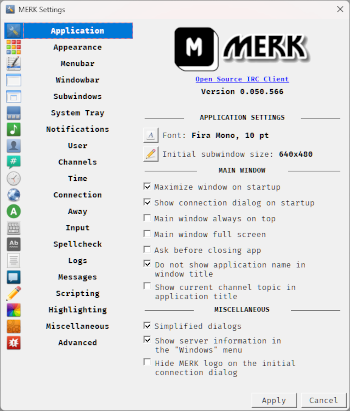
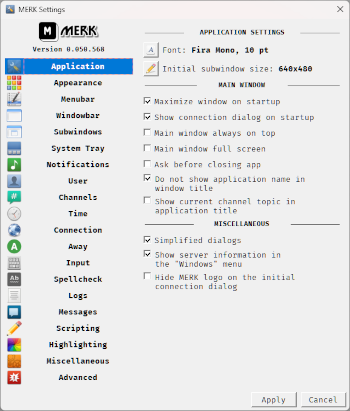
Tweaks to the settings dialog, and a new screenshot

diff --git a/README.html b/README.html
@@ -1,4 +1,4 @@
-<h1>MERK 0.050.568</h1>
+<h1>MERK 0.050.569</h1>
 
 <p><a href="https://github.com/nutjob-laboratories/merk">Official source code repository</a></p>
 <h1 id="table-of-contents">Table of contents</h1>
@@ -14,7 +14,7 @@
 <li><a href="#does-merk-need-any-help">Does MERK need any help?</a></li>
 </ul>
 <h1 id="summary">Summary</h1>
-<p><strong>MERK</strong> is a graphical <a href="https://www.gnu.org/licenses/gpl-3.0.en.html">open source</a> <a href="https://en.wikipedia.org/wiki/Internet_Relay_Chat">Internet relay chat</a> client. The current development version is <strong>0.050.568</strong>. It uses a <a href="https://en.wikipedia.org/wiki/Multiple-document_interface">multiple-document interface</a>, much like the popular Windows IRC client <a href="https://www.mirc.com/">mIRC</a>.  <strong>MERK</strong> is written in Python 3, using the <a href="https://pypi.org/project/PyQt5/">PyQt5</a> and <a href="https://twistedmatrix.com/trac/">Twisted</a> libraries, and runs on both Windows and Linux. <strong>MERK</strong> is updated frequently with new features and bugfixes.</p>
+<p><strong>MERK</strong> is a graphical <a href="https://www.gnu.org/licenses/gpl-3.0.en.html">open source</a> <a href="https://en.wikipedia.org/wiki/Internet_Relay_Chat">Internet relay chat</a> client. The current development version is <strong>0.050.569</strong>. It uses a <a href="https://en.wikipedia.org/wiki/Multiple-document_interface">multiple-document interface</a>, much like the popular Windows IRC client <a href="https://www.mirc.com/">mIRC</a>.  <strong>MERK</strong> is written in Python 3, using the <a href="https://pypi.org/project/PyQt5/">PyQt5</a> and <a href="https://twistedmatrix.com/trac/">Twisted</a> libraries, and runs on both Windows and Linux. <strong>MERK</strong> is updated frequently with new features and bugfixes.</p>
 <p><strong>MERK</strong> is still in development, but it works, and can be used for most IRC activities.</p>
 <p>Join me on the official <strong>MERK</strong> IRC channel, <strong>#merk</strong> on the Libera Chat network! Connect to  Libera in the client as one of the built-in server suggestions, or at <strong>irc.libera.chat</strong>, port <strong>6667</strong> (you can also connect via SSL on port <strong>6697</strong>). Honestly, I work a lot, so I&#39;m almost always idle, but I pop in and chat a few times a day!</p>
 <h1 id="making-merk-portable-on-windows">Making MERK Portable on Windows</h1>

diff --git a/merk/resources/README.html b/merk/resources/README.html
@@ -1,4 +1,4 @@
-<h1>MERK 0.050.568</h1>
+<h1>MERK 0.050.569</h1>
 
 <p><a href="https://github.com/nutjob-laboratories/merk">Official source code repository</a></p>
 <h1 id="table-of-contents">Table of contents</h1>
@@ -14,7 +14,7 @@
 <li><a href="#does-merk-need-any-help">Does MERK need any help?</a></li>
 </ul>
 <h1 id="summary">Summary</h1>
-<p><strong>MERK</strong> is a graphical <a href="https://www.gnu.org/licenses/gpl-3.0.en.html">open source</a> <a href="https://en.wikipedia.org/wiki/Internet_Relay_Chat">Internet relay chat</a> client. The current development version is <strong>0.050.568</strong>. It uses a <a href="https://en.wikipedia.org/wiki/Multiple-document_interface">multiple-document interface</a>, much like the popular Windows IRC client <a href="https://www.mirc.com/">mIRC</a>.  <strong>MERK</strong> is written in Python 3, using the <a href="https://pypi.org/project/PyQt5/">PyQt5</a> and <a href="https://twistedmatrix.com/trac/">Twisted</a> libraries, and runs on both Windows and Linux. <strong>MERK</strong> is updated frequently with new features and bugfixes.</p>
+<p><strong>MERK</strong> is a graphical <a href="https://www.gnu.org/licenses/gpl-3.0.en.html">open source</a> <a href="https://en.wikipedia.org/wiki/Internet_Relay_Chat">Internet relay chat</a> client. The current development version is <strong>0.050.569</strong>. It uses a <a href="https://en.wikipedia.org/wiki/Multiple-document_interface">multiple-document interface</a>, much like the popular Windows IRC client <a href="https://www.mirc.com/">mIRC</a>.  <strong>MERK</strong> is written in Python 3, using the <a href="https://pypi.org/project/PyQt5/">PyQt5</a> and <a href="https://twistedmatrix.com/trac/">Twisted</a> libraries, and runs on both Windows and Linux. <strong>MERK</strong> is updated frequently with new features and bugfixes.</p>
 <p><strong>MERK</strong> is still in development, but it works, and can be used for most IRC activities.</p>
 <p>Join me on the official <strong>MERK</strong> IRC channel, <strong>#merk</strong> on the Libera Chat network! Connect to  Libera in the client as one of the built-in server suggestions, or at <strong>irc.libera.chat</strong>, port <strong>6667</strong> (you can also connect via SSL on port <strong>6697</strong>). Honestly, I work a lot, so I&#39;m almost always idle, but I pop in and chat a few times a day!</p>
 <h1 id="making-merk-portable-on-windows">Making MERK Portable on Windows</h1>

diff --git a/merk/dialog/settings.py b/merk/dialog/settings.py
@@ -1495,19 +1495,7 @@ class Dialog(QDialog):
 		self.showTopicInTitle.stateChanged.connect(self.changedSetting)
 		self.showTopicInTitle.setStyleSheet("QCheckBox { text-align: left top; } QCheckBox::indicator { subcontrol-origin: padding; subcontrol-position: left top; }")
 
-		logo = QLabel()
-		pixmap = QPixmap(SPLASH_LOGO)
-		logo.setPixmap(pixmap)
-		logo.setAlignment(Qt.AlignCenter)
-
-		app_link = QLabel(f'<center><b><small><a href="{APPLICATION_SOURCE}">Open Source IRC Client</a></small></b></center>')
-		app_link.setOpenExternalLinks(True)
-
 		applicationLayout = QVBoxLayout()
-		applicationLayout.addWidget(logo)
-		applicationLayout.addWidget(app_link)
-		applicationLayout.addWidget(QLabel(f'<center><b>Version {APPLICATION_VERSION}</b></center>'))
-		applicationLayout.addWidget(QLabel(' '))
 		applicationLayout.addWidget(widgets.textSeparatorLabel(self,"<b>application settings</b>"))
 		applicationLayout.addLayout(fontLayout)
 		applicationLayout.addLayout(sizeLayout)
@@ -4267,7 +4255,15 @@ class Dialog(QDialog):
 		dialogButtonsLayout.addWidget(self.saveButton)
 		dialogButtonsLayout.addWidget(self.cancelButton)
 
+		logo = QLabel()
+		pixmap = QPixmap(SPLASH_LOGO)
+		pixmap = pixmap.scaledToWidth(self.selector.width(), Qt.SmoothTransformation)
+		logo.setPixmap(pixmap)
+		logo.setAlignment(Qt.AlignCenter)
+
 		leftLayout = QVBoxLayout()
+		leftLayout.addWidget(logo)
+		leftLayout.addWidget(QLabel(f"<center><small><b>Version {APPLICATION_VERSION}</b></small></center>"))
 		leftLayout.addWidget(self.selector)
 
 		mainLayout = QHBoxLayout()

diff --git a/merk/resources/version.py b/merk/resources/version.py
@@ -1,1 +1,1 @@
-APPLICATION_VERSION = "0.050.568"
+APPLICATION_VERSION = "0.050.569"

diff --git a/README.md b/README.md
@@ -3,7 +3,7 @@
   <b><big>Open Source IRC Client</big></b><br>
   <i>A multiple-document interface IRC client for Windows and Linux</i><br>
   <b><big>Current stable release: <a href="https://github.com/nutjob-laboratories/merk/releases/tag/0.050.550">MERK 0.050.550</a></big></b><br>
-  <b>Current development version: 0.050.568</b><br><br>
+  <b>Current development version: 0.050.569</b><br><br>
   <b><a href="https://gofund.me/ae062139">Help Fund MERK!</a></b><br>
 </p>
 
@@ -30,13 +30,13 @@ All files are packed in [ZIP archive files](https://en.wikipedia.org/wiki/ZIP_(f
 | :----:    | :----:    | :----:    |
 | User Guide |  PDF  | [MERK User Guide](./MERK_User_Guide.pdf)  |
 | Current Release |  -  | [MERK 0.050.550 Release](https://github.com/nutjob-laboratories/merk/releases/tag/0.050.550)  |
-| Zip Archive|  Cross-platform  | [Download MERK 0.050.568 (11.99 MB)](https://www.dropbox.com/scl/fi/pf9p7ltb3uufm5akjz7l0/merk-latest.zip?rlkey=3caodopybbcxr4p9grxygxzym&st=01zsuura&dl=1)  |
-| Zip Archive|  Windows EXE | [Download MERK 0.050.568 (48.81 MB)](https://www.dropbox.com/scl/fi/4w9ufyknzac24o06710bi/merk-windows-latest.zip?rlkey=zmir67l3klg8mw0omxayzmssc&st=vb69tsdi&dl=1)|
-|   Windows Installer|  Windows Setup | [Download MERK 0.050.568 (45.94 MB)](https://www.dropbox.com/scl/fi/0u1vcg5xuntzs2b16e01b/merk_setup.zip?rlkey=8avj1gyed3txz1nfj9ev41mmh&st=zlve4c1o&dl=1)|
+| Zip Archive|  Cross-platform  | [Download MERK 0.050.569 (11.99 MB)](https://www.dropbox.com/scl/fi/pf9p7ltb3uufm5akjz7l0/merk-latest.zip?rlkey=3caodopybbcxr4p9grxygxzym&st=01zsuura&dl=1)  |
+| Zip Archive|  Windows EXE | [Download MERK 0.050.569 (48.82 MB)](https://www.dropbox.com/scl/fi/4w9ufyknzac24o06710bi/merk-windows-latest.zip?rlkey=zmir67l3klg8mw0omxayzmssc&st=vb69tsdi&dl=1)|
+|   Windows Installer|  Windows Setup | [Download MERK 0.050.569 (45.93 MB)](https://www.dropbox.com/scl/fi/0u1vcg5xuntzs2b16e01b/merk_setup.zip?rlkey=8avj1gyed3txz1nfj9ev41mmh&st=zlve4c1o&dl=1)|
 
 # Summary
   
-**MERK** is a graphical [open source](https://www.gnu.org/licenses/gpl-3.0.en.html) [Internet relay chat](https://en.wikipedia.org/wiki/Internet_Relay_Chat) client. The current development version is **0.050.568**. It uses a [multiple-document interface](https://en.wikipedia.org/wiki/Multiple-document_interface), much like the popular Windows IRC client [mIRC](https://www.mirc.com/).  **MERK** is written in Python 3, using the [PyQt5](https://pypi.org/project/PyQt5/) and [Twisted](https://twistedmatrix.com/trac/) libraries, and runs on both Windows and Linux. **MERK** is updated frequently with new features and bugfixes.
+**MERK** is a graphical [open source](https://www.gnu.org/licenses/gpl-3.0.en.html) [Internet relay chat](https://en.wikipedia.org/wiki/Internet_Relay_Chat) client. The current development version is **0.050.569**. It uses a [multiple-document interface](https://en.wikipedia.org/wiki/Multiple-document_interface), much like the popular Windows IRC client [mIRC](https://www.mirc.com/).  **MERK** is written in Python 3, using the [PyQt5](https://pypi.org/project/PyQt5/) and [Twisted](https://twistedmatrix.com/trac/) libraries, and runs on both Windows and Linux. **MERK** is updated frequently with new features and bugfixes.
 
 **MERK** is still in development, but it works, and can be used for most IRC activities. [The current stable release of **MERK** is version 0.050.550](https://github.com/nutjob-laboratories/merk/releases/tag/0.050.550). **MERK** has a user guide, which can be [viewed here](./MERK_User_Guide.pdf).
 
@@ -118,7 +118,7 @@ There are three libraries that comes bundled with **MERK**:
 
 # Screenshots
 
-<p><small><i>Screenshots may not reflect the current release (0.050.550), and may reflect the current development version (0.050.568). More screenshots are in the <a href="./MERK_User_Guide.pdf">MERK User Guide</a>.</i></small></p>
+<p><small><i>Screenshots may not reflect the current release (0.050.550), and may reflect the current development version (0.050.569). More screenshots are in the <a href="./MERK_User_Guide.pdf">MERK User Guide</a>.</i></small></p>
 
 <p align="center">
 <center><a href="./graphics/screenshot_big.png"><img src="./graphics/screenshot1.png"></a></center></br>
